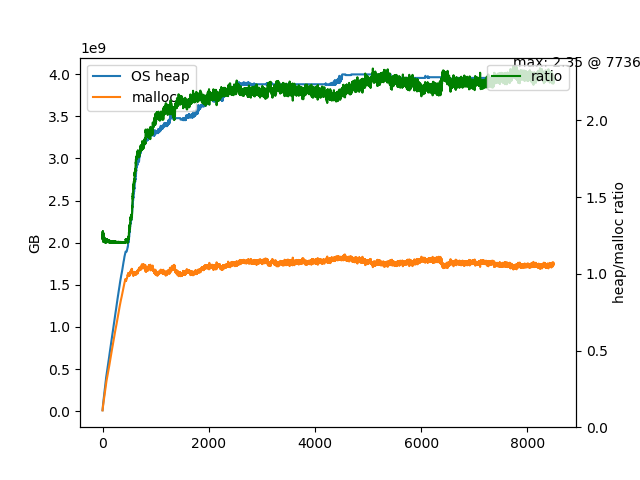
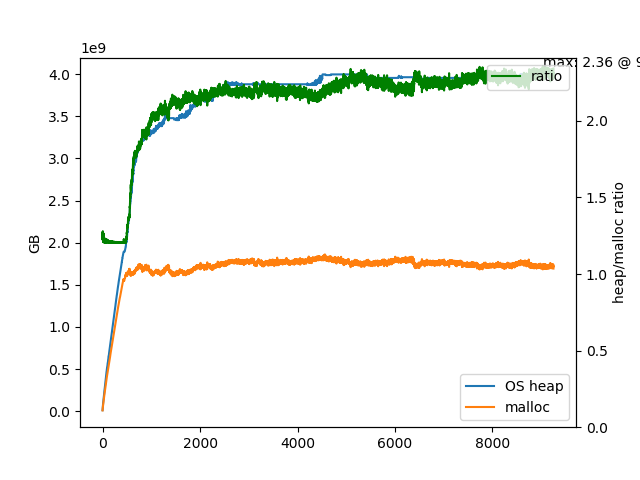
malloc uses mmap for big allocations; full-maps accounting

diff --git a/framework/MallocAccounting.cpp b/framework/MallocAccounting.cpp
@@ -6,6 +6,7 @@
 #include <string.h>
 #include <stdio.h>
 #include <stdlib.h>
+#include <sys/mman.h>
 #include <unordered_map>
 #include <vector>
 
@@ -53,23 +54,26 @@ bool cstr_ends_with(const char* haystack, const char* needle) {
 }
 
 // OS view of heap size
-size_t external_heap_size() {
+void external_heap_size(size_t* heap, size_t* all_maps) {
   size_t result = -1;
   FILE* fp = fopen("/proc/self/maps", "r");
+  size_t total = 0;
   while (true) {
     char space[1000];
     char* line = fgets(space, sizeof(space), fp);
     if (line==NULL) { break; }
+    char* remainder;
+    size_t base = strtol(line, &remainder, 16);
+    size_t end = strtol(&remainder[1], NULL, 16);
+    result = end - base;
+    total += result;
+
     if (cstr_ends_with(line, "[heap]\n")) {
-      char* remainder;
-      long base = strtol(line, &remainder, 16);
-      long end = strtol(&remainder[1], NULL, 16);
-      result = end - base;
-      break;
+      *heap = result;
     }
   }
   fclose(fp);
-  return result;
+  *all_maps = total;
 }
   
 #define ACCOUNTING_MAGIC 0x1badf00f
@@ -134,6 +138,7 @@ Label g_default_label("default", "");
 class ATable {
 private:
   std::unordered_map<Label, ARow> umap;
+  std::unordered_map<size_t, size_t> histogram;
   Label g_active_label;
 
 public:
@@ -150,8 +155,11 @@ public:
 
  ARow* get_active_row() { return get_or_add_row(g_active_label); }
   
-  void display();
+  void display_cause_map();
   size_t total_open();  // total open allocation bytes
+
+  void histogram_increment(size_t size, int delta);
+  void display_histogram();
 };
 
 ATable::ATable() {
@@ -174,7 +182,7 @@ size_t ATable::total_open() {
   return total;
 }
 
-void ATable::display() {
+void ATable::display_cause_map() {
   Label totalLabel("total", "");
   ARow total(totalLabel);
   printf("%10s %10s %10s %10s  %s\n",
@@ -216,15 +224,53 @@ void ATable::display() {
     "");
 }
 
+void ATable::histogram_increment(size_t size, int delta) {
+  auto insertPair = histogram.emplace(size, 0);
+  auto eltIt = insertPair.first;
+  auto kvPointer = &(*eltIt);
+  kvPointer->second += delta;
+}
+
+void ATable::display_histogram() {
+  std::vector<std::pair<size_t, size_t>> buckets;
+  for (auto it = histogram.begin(); it != histogram.end(); it++)  {
+    buckets.push_back(std::pair<size_t, size_t>(it->first, it->second));
+  }
+  sort(buckets.begin(), buckets.end(), [](const std::pair<size_t,size_t>& lhs, const std::pair<size_t,size_t>& rhs) {
+      return lhs.first < rhs.first;
+  });
+
+  size_t total = 0;
+  printf("{");
+  for (auto it = buckets.begin(); it != buckets.end(); it++)  {
+    auto pair = *it;
+    total += pair.first * pair.second;
+    printf("%ld:%ld,", pair.first, pair.second);
+  }
+  printf("}\n");
+  printf("histogram total %ld\n", total);
+}
+
 ATable atable;
+
+#define SIZE_THRESH (1<<20) /* 1MB */
+#define ENABLE_MMAP_POOL 0
 
 void *malloc_hook(size_t size, const void *caller) {
   void *result;
 
   remove_hooks();
+  // do our work (outside of hookland)
+
+  size_t underlying_size = size + sizeof(AccountingHeader);
 
   // Call real malloc
-  result = malloc(size + sizeof(AccountingHeader));
+  bool use_mmap = ENABLE_MMAP_POOL && (size >= SIZE_THRESH);
+  if (use_mmap) {
+    result = mmap(NULL, underlying_size, PROT_READ|PROT_WRITE, MAP_ANONYMOUS | MAP_PRIVATE, -1, 0);
+  } else {
+    result = malloc(underlying_size);
+  }
 
   ARow* arow = atable.get_active_row();
   AccountingHeader* ar = (AccountingHeader*) result;
@@ -234,12 +280,12 @@ void *malloc_hook(size_t size, const void *caller) {
   ar->arow = arow;
   //record_underlying_hooks(); // not sure why example re-saves hooks here
 
-  // do our work (outside of hookland)
   //printf("malloc_hook sees size %lx from %p; returns %p\n", size, caller, result);
   arow->total_allocation_count += 1;
   arow->open_allocation_count += 1;
   arow->total_allocation_bytes += size;
   arow->open_allocation_bytes += size;
+  atable.histogram_increment(size, 1);
 
   install_hooks();
 
@@ -257,6 +303,9 @@ void free_hook(void* ptr, const void *caller) {
   // do our work (outside of hookland)
   AccountingHeader* ar = (AccountingHeader*)((char*) ptr - sizeof(AccountingHeader));
   void* orig_ptr;
+  size_t size = 0;
+  bool use_munmap;
+
   if (ar->magic != ACCOUNTING_MAGIC) {
     // Uh, that's not mine.
     // https://getyarn.io/yarn-clip/00a2eaf9-a18d-4aea-b600-6e4b19bbe4d1
@@ -265,16 +314,26 @@ void free_hook(void* ptr, const void *caller) {
     // This occurs due to allocations that happened before our hook
     // mechanism got installed. Not very interesting. 
     //printf("free_hook frees someone else's ptr %p\n", ptr);
+    use_munmap = false;
   } else {
     orig_ptr = ar;
 //    printf("free_hook sees free %p size %lx from %p\n", ptr, ar->allocation_size, caller);
 
+    size = ar->allocation_size;
     ARow* arow = ar->arow;
     arow->open_allocation_count -= 1;
-    arow->open_allocation_bytes -= ar->allocation_size;
+    arow->open_allocation_bytes -= size;
+    atable.histogram_increment(size, -1);
+    use_munmap = ENABLE_MMAP_POOL && (size >= SIZE_THRESH);
   }
 
-  free(orig_ptr);
+  if (use_munmap) {
+    size_t underlying_size = size + sizeof(AccountingHeader);
+//    printf("--munmap big block %.1fMB\n", underlying_size/(1024*1024.0));
+    munmap(orig_ptr, underlying_size);
+  } else {
+    free(orig_ptr);
+  }
 
   install_hooks();
 }
@@ -300,8 +359,9 @@ void dump_proc_self_maps() {
 
 void malloc_accounting_display(const char* label) {
   printf("*** Malloc accounting at %s\n", label);
-  atable.display();
+  atable.display_cause_map();
   // dump_proc_self_maps();
+  // atable.display_histogram();
 }
 
 void fini_malloc_accounting() {
@@ -320,8 +380,11 @@ void fini_malloc_accounting() {
 // Finally, we could also be gobbling up other cgroup-y memory -- maybe
 // space in the buffer cache? Not worrying about that here.
 void malloc_accounting_status() {
-  printf("proc-heap %8ld malloc-accounting-total %8ld\n",
-    external_heap_size(),
+  size_t heap, all_maps;
+  external_heap_size(&heap, &all_maps);
+  printf("os-map-total %8ld os-map-heap %8ld malloc-accounting-total %8ld\n",
+    all_maps,
+    heap,
     atable.total_open());
 }
 

diff --git a/framework/MallocAccounting.h b/framework/MallocAccounting.h
@@ -20,6 +20,7 @@ template<typename T> char const* malloc_accounting_get_type_name() {
 #else // MALLOC_ACCOUNTING
 inline void init_malloc_accounting() {}
 inline void malloc_accounting_status() {}
+inline void malloc_accounting_display(const char* label) {}
 inline void fini_malloc_accounting() {}
 inline void malloc_accounting_set_scope(const char* scope) {}
 inline void malloc_accounting_set_scope(const char* scope, const char* subscope) {}
